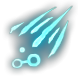
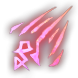
updated some images

diff --git a/Delve/Delve/Delve.cs b/Delve/Delve/Delve.cs
@@ -460,7 +460,7 @@ namespace Delve
 						)
 					{
 						return new MapIcon(e,
-							new HudTexture(PoeHudImageLocation + "strongbox.png", Settings.DelvePathwayChestColor),
+							new HudTexture(PoeHudImageLocation + "rare-amulet.png", Settings.DelvePathwayChestColor),
 							() => true,
 							Settings.DelvePathwayChestSize);
 					}
